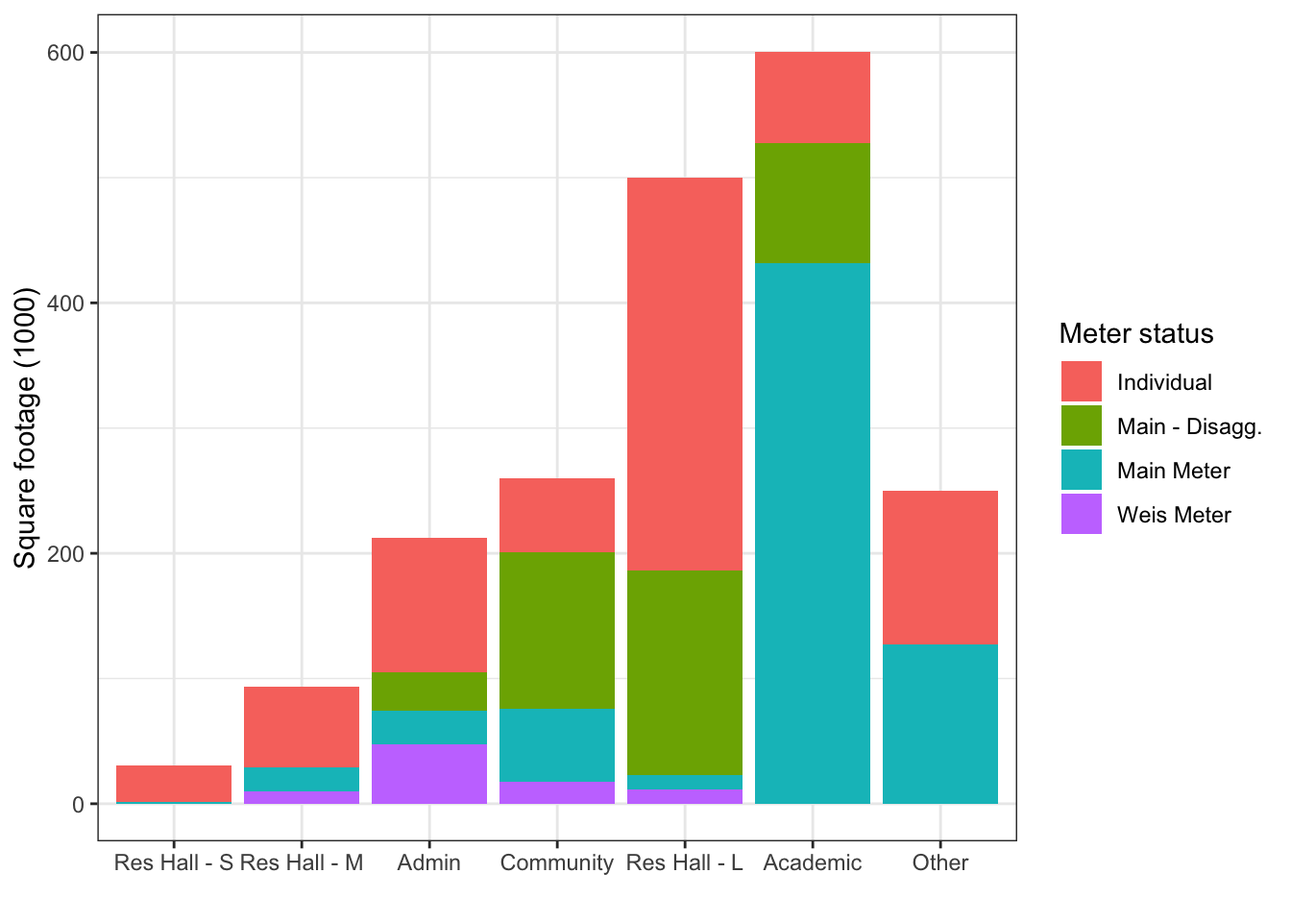
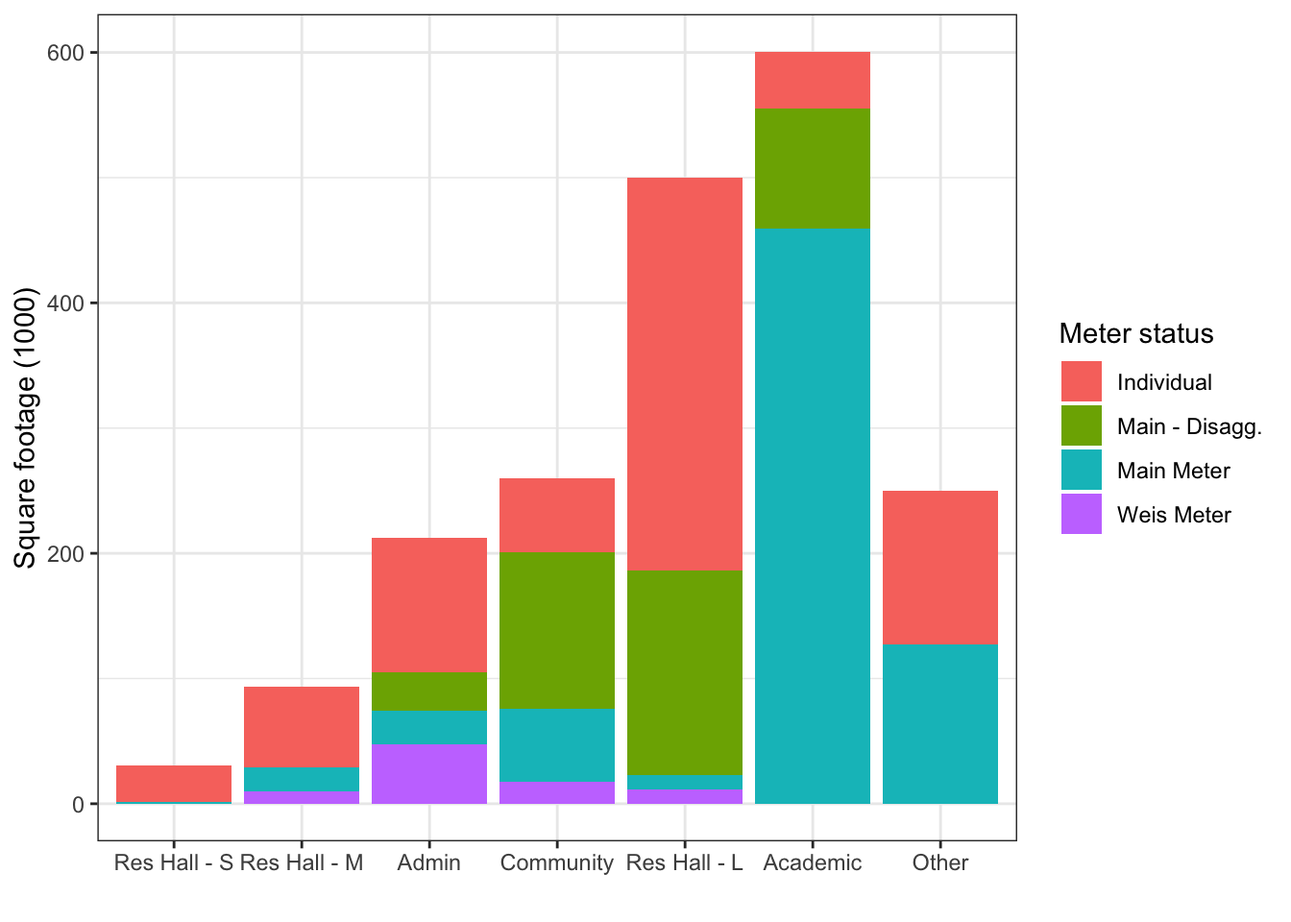
fixed issue with East College

Changed region(s): [[0.5625, 0.0938, 0.6875, 0.1562], [0.5625, 0.25, 0.6875, 0.3125]]

diff --git a/docs/data_wrangling_final.html b/docs/data_wrangling_final.html
@@ -525,15 +525,15 @@ project makes it easier to run your code on other machines.</p>
 <div class="panel panel-default">
 <div class="panel-heading">
 <p class="panel-title">
-<a data-toggle="collapse" data-parent="#workflowr-checks" href="#strongRepositoryversionstrongahrefhttpsgithubcommaggiedouglasdickinsonpowertree182fffebb4d7be99596fca90384b3ba416ab01a2targetblank182fffea">
+<a data-toggle="collapse" data-parent="#workflowr-checks" href="#strongRepositoryversionstrongahrefhttpsgithubcommaggiedouglasdickinsonpowertree1e465a5912dd503e14b6c6aa9b4256d15424c390targetblank1e465a5a">
 <span class="glyphicon glyphicon-ok text-success"
 aria-hidden="true"></span> <strong>Repository version:</strong>
-<a href="https://github.com/maggiedouglas/dickinson_power/tree/182fffebb4d7be99596fca90384b3ba416ab01a2" target="_blank">182fffe</a>
+<a href="https://github.com/maggiedouglas/dickinson_power/tree/1e465a5912dd503e14b6c6aa9b4256d15424c390" target="_blank">1e465a5</a>
 </a>
 </p>
 </div>
 <div
[2 lines of base64/hex data omitted]
 class="panel-collapse collapse">
 <div class="panel-body">
 <p>
@@ -543,7 +543,7 @@ reproducibility.
 </p>
 <p>
 The results in this page were generated with repository version
-<a href="https://github.com/maggiedouglas/dickinson_power/tree/182fffebb4d7be99596fca90384b3ba416ab01a2" target="_blank">182fffe</a>.
+<a href="https://github.com/maggiedouglas/dickinson_power/tree/1e465a5912dd503e14b6c6aa9b4256d15424c390" target="_blank">1e465a5</a>.
 See the <em>Past versions</em> tab to see a history of the changes made
 to the R Markdown and HTML files.
 </p>
@@ -574,14 +574,10 @@ Ignored files:
     Ignored:    output/kwh_main_annual.csv
     Ignored:    output/kwh_main_daily.csv
 
-Untracked files:
-    Untracked:  keys/fy25_building_list_updated.csv
-
 Unstaged changes:
-    Modified:   analysis/building_case_study.Rmd
     Modified:   analysis/data_wrangling_final.Rmd
+    Modified:   keys/fy25_building_list_updated.csv
     Modified:   keys/meter_building_key.csv
-    Modified:   keys/temp_by_date.csv
 
 </code></pre>
 <p>
@@ -627,6 +623,40 @@ Message
 </tr>
 </thead>
 <tbody>
+<tr>
+<td>
+Rmd
+</td>
+<td>
+<a href="https://github.com/maggiedouglas/dickinson_power/blob/1e465a5912dd503e14b6c6aa9b4256d15424c390/analysis/data_wrangling_final.Rmd" target="_blank">1e465a5</a>
+</td>
+<td>
+maggiedouglas
+</td>
+<td>
+2026-02-23
+</td>
+<td>
+updated data and building case study with new info
+</td>
+</tr>
+<tr>
+<td>
+html
+</td>
+<td>
+<a href="https://rawcdn.githack.com/maggiedouglas/dickinson_power/1e465a5912dd503e14b6c6aa9b4256d15424c390/docs/data_wrangling_final.html" target="_blank">1e465a5</a>
+</td>
+<td>
+maggiedouglas
+</td>
+<td>
+2026-02-23
+</td>
+<td>
+updated data and building case study with new info
+</td>
+</tr>
 <tr>
 <td>
 html
@@ -838,7 +868,7 @@ co2_kg_kwh &lt;- 0.299511787</code></pre>
  $ total_kwh     : num  28 26.4 26.5 26.3 27.2 ...
  $ ave_temp      : int  78 76 78 81 75 78 80 79 76 76 ...</code></pre>
 <pre class="r"><code>str(buildings)</code></pre>
-<pre><code>&#39;data.frame&#39;:   133 obs. of  14 variables:
+<pre><code>&#39;data.frame&#39;:   136 obs. of  14 variables:
  $ TYPE       : chr  &quot;Academic&quot; &quot;Academic&quot; &quot;Academic&quot; &quot;Academic&quot; ...
  $ type_new   : chr  &quot;Academic&quot; &quot;Academic&quot; &quot;Academic&quot; &quot;Academic&quot; ...
  $ banner_code: chr  &quot;1110&quot; &quot;1540&quot; &quot;1035&quot; &quot;1030&quot; ...
@@ -850,11 +880,11 @@ co2_kg_kwh &lt;- 0.299511787</code></pre>
  $ date_reno  : int  2010 NA NA 2019 2000 NA 1997 2009 1940 2002 ...
  $ sqft       : int  2500 1775 4576 28050 30000 2500 4000 29133 33692 11039 ...
  $ rental     : int  0 0 0 0 0 0 1 0 0 0 ...
- $ main_meter : int  0 0 0 0 0 0 0 1 1 1 ...
+ $ main_meter : int  0 0 0 1 0 0 0 1 1 1 ...
  $ main_disagg: int  0 0 0 0 0 0 0 1 1 1 ...
  $ weis_meter : int  0 0 0 0 0 0 0 0 0 0 ...</code></pre>
 <pre class="r"><code>str(key)</code></pre>
-<pre><code>&#39;data.frame&#39;:   204 obs. of  3 variables:
+<pre><code>&#39;data.frame&#39;:   206 obs. of  3 variables:
  $ meter_origin          : chr  &quot;100 S College St&quot; &quot;100 S West St&quot; &quot;101 S College St&quot; &quot;102 S West St *Apt 1&quot; ...
  $ Sum.of.Total.Usage.kWh: int  269502 12628 14429 4609 4109 2070 7284 5457 3365 6181 ...
  $ NAME                  : chr  &quot;Drayer Hall&quot; &quot;100 S. West St.&quot; &quot;Landis House&quot; &quot;100 S. West St.&quot; ...</code></pre>
@@ -898,7 +928,7 @@ buildings_clean &lt;- buildings %&gt;%
   select(NAME, type_new, occupant, address, date_constr, date_acqd, date_reno, sqft, rental) %&gt;% # select relevant columns
   rbind(buildings_main, buildings_weis)
 
-# Sstore summary of building meter status
+# Store summary of building meter status
 buildings_sum &lt;- buildings %&gt;%
     mutate(meter = ifelse(weis_meter == 1, &quot;Weis Meter&quot;, 
                         ifelse(main_meter == 1 &amp; main_disagg == 1, &quot;Main - Disagg.&quot;,
@@ -966,16 +996,53 @@ datatable(joined_pretty,
                        &quot;Rental?&quot;,&quot;kWh&quot;, &quot;Est cost&quot;, &quot;Square\nfootage&quot;,&quot;kWh\nper sqft&quot;,
                        &quot;Acad yr\noccupants&quot;, &quot;kWh\nper person&quot;))</code></pre>
 <div class="datatables html-widget html-fill-item" id="htmlwidget-1d485ada9b99fcfe0617" style="width:100%;height:auto;"></div>
-<script type="application/json" data-for="htmlwidget-1d485ada9b99fcfe0617">{"x":{"filter":"top","vertical":false,"filterHTML":"<tr>\n  <td data-type=\"character\" style=\"vertical-align: top;\">\n    <div class=\"form-group has-feedback\" style=\"margin-bottom: auto;\">\n      <input type=\"search\" placeholder=\"All\" class=\"form-control\" style=\"width: 100%;\"/>\n      <span class=\"glyphicon glyphicon-remove-circle form-control-feedback\"><\/span>\n    <\/div>\n  <\/td>\n  <td data-type=\"character\" style=\"vertical-align: top;\">\n    <div class=\"form-group has-feedback\" style=\"margin-bottom: auto;\">\n      <input type=\"search\" placeholder=\"All\" class=\"form-control\" style=\"width: 100%;\"/>\n      <span class=\"glyphicon glyphicon-remove-circle form-control-feedback\"><\/span>\n    <\/div>\n  <\/td>\n  <td data-type=\"character\" style=\"vertical-align: top;\">\n    <div class=\"form-group has-feedback\" style=\"margin-bottom: auto;\">\n      <input type=\"search\" placeholder=\"All\" class=\"form-control\" style=\"width: 100%;\"/>\n      <span class=\"glyphicon glyphicon-remove-circle form-control-feedback\"><\/span>\n    <\/div>\n  <\/td>\n  <td data-type=\"integer\" style=\"vertical-align: top;\">\n    <div class=\"form-group has-feedback\" style=\"margin-bottom: auto;\">\n      <input type=\"search\" placeholder=\"All\" class=\"form-control\" style=\"width: 100%;\"/>\n      <span class=\"glyphicon glyphicon-remove-circle form-control-feedback\"><\/span>\n    <\/div>\n    <div style=\"display: none;position: absolute;width: 200px;opacity: 1\">\n      <div data-min=\"1997\" data-max=\"2022\"><\/div>\n      <span style=\"float: left;\"><\/span>\n      <span style=\"float: right;\"><\/span>\n    <\/div>\n  <\/td>\n  <td data-type=\"number\" style=\"vertical-align: top;\">\n    <div class=\"form-group has-feedback\" style=\"margin-bottom: auto;\">\n      <input type=\"search\" placeholder=\"All\" class=\"form-control\" style=\"width: 100%;\"/>\n      <span class=\"glyphicon glyphicon-remove-circle form-control-feedback\"><\/span>\n    <\/div>\n    <div style=\"display: none;position: absolute;width: 200px;opacity: 1\">\n      <div data-min=\"0\" data-max=\"1\"><\/div>\n      <span style=\"float: left;\"><\/span>\n      <span style=\"float: right;\"><\/span>\n    <\/div>\n  <\/td>\n  <td data-type=\"number\" style=\"vertical-align: top;\">\n    <div class=\"form-group has-feedback\" style=\"margin-bottom: auto;\">\n      <input type=\"search\" placeholder=\"All\" class=\"form-control\" style=\"width: 100%;\"/>\n      <span class=\"glyphicon glyphicon-remove-circle form-control-feedback\"><\/span>\n    <\/div>\n    <div style=\"display: none;position: absolute;width: 200px;opacity: 1\">\n      <div data-min=\"1068\" data-max=\"11648808\"><\/div>\n      <span style=\"float: left;\"><\/span>\n      <span style=\"float: right;\"><\/span>\n    <\/div>\n  <\/td>\n  <td data-type=\"character\" style=\"vertical-align: top;\">\n    <div class=\"form-group has-feedback\" style=\"margin-bottom: auto;\">\n      <input type=\"search\" placeholder=\"All\" class=\"form-control\" style=\"width: 100%;\"/>\n      <span class=\"glyphicon glyphicon-remove-circle form-control-feedback\"><\/span>\n    <\/div>\n  <\/td>\n  <td data-type=\"number\" style=\"vertical-align: top;\">\n    <div class=\"form-group has-feedback\" style=\"margin-bottom: auto;\">\n      <input type=\"search\" placeholder=\"All\" class=\"form-control\" style=\"width: 100%;\"/>\n      <span class=\"glyphicon glyphicon-remove-circle form-control-feedback\"><\/span>\n    <\/div>\n    <div style=\"display: none;position: absolute;width: 200px;opacity: 1\">\n      <div data-min=\"500\" data-max=\"60000\"><\/div>\n      <span style=\"float: left;\"><\/span>\n      <span style=\"float: right;\"><\/span>\n    <\/div>\n  <\/td>\n  <td data-type=\"number\" style=\"vertical-align: top;\">\n    <div class=\"form-group has-feedback\" style=\"margin-bottom: auto;\">\n      <input type=\"search\" placeholder=\"All\" class=\"form-control\" style=\"width: 100%;\"/>\n      <span class=\"glyphicon glyphicon-remove-circle form-control-feedback\"><\/span>\n    <\/div>\n    <div style=\"display: none;position: absolute;width: 200px;opacity: 1\">\n      <div data-min=\"0.9\" data-max=\"415.3\" data-scale=\"1\"><\/div>\n      <span style=\"float: left;\"><\/span>\n      <span style=\"float: right;\"><\/span>\n    <\/div>\n  <\/td>\n  <td data-type=\"number\" style=\"vertical-align: top;\">\n    <div class=\"form-group has-feedback\" style=\"margin-bottom: auto;\">\n      <input type=\"search\" placeholder=\"All\" class=\"form-control\" style=\"width: 100%;\"/>\n      <span class=\"glyphicon glyphicon-remove-circle form-control-feedback\"><\/span>\n    <\/div>\n    <div style=\"display: none;position: absolute;width: 200px;opacity: 1\">\n      <div data-min=\"2\" data-max=\"162\"><\/div>\n      <span style=\"float: left;\"><\/span>\n      <span style=\"float: right;\"><\/span>\n    <\/div>\n  <\/td>\n  <td data-type=\"number\" style=\"vertical-align: top;\">\n    <div class=\"form-group has-feedback\" style=\"margin-bottom: auto;\">\n      <input type=\"search\" placeholder=\"All\" class=\"form-control\" style=\"width: 100%;\"/>\n      <span class=\"glyphicon glyphicon-remove-circle form-control-feedback\"><\/span>\n    <\/div>\n    <div style=\"display: none;position: absolute;width: 200px;opacity: 1\">\n      <div data-min=\"725\" data-max=\"6641\"><\/div>\n      <span style=\"float: left;\"><\/span>\n      <span style=\"float: right;\"><\/span>\n    <\/div>\n  <\/td>\n<\/tr>","data":[["Res Hall - L","Res Hall - L","Res Hall - L","Other","Res Hall - L","Res Hall - L","Community","Academic","Academic","Admin","Other","Res Hall - L","Res Hall - L","Res Hall - L","Res Hall - L","Res Hall - L","Community","Community","Res Hall - M","Res Hall - M","Community","Res Hall - M","Res Hall - M","Res Hall - M","Academic","Res Hall - M","Res Hall - M","Res Hall - M","Res Hall - M","Academic","Res Hall - M","Res Hall - M","Other","Res Hall - M","Other","Res Hall - M","Academic","Academic","Res Hall - M","Other","Admin","Admin","Res Hall - S","Other","Academic","Res Hall - S","Res Hall - S","Res Hall - S","Other","Res Hall - S","Res Hall - S","Res Hall - S","Res Hall - S","Res Hall - S","Res Hall - S","Res Hall - S","Res Hall - S","Res Hall - S","Admin","Res Hall - S","Res Hall - S","Res Hall - S","Res Hall - S","Res Hall - S","Res Hall - S","Other","Other","Res Hall - S","Other","Other","Other","Res Hall - U","Res Hall - U","Res Hall - U","Res Hall - U","Res Hall - U"],["Goodyear","Drayer Hall","Adams","5 N. Orange St. - CPYB/SHARE","High Street Residence Hall","Morgan Hall","Allison Church","Goodyear Arts Studio","East College","50 Mooreland Ave.","Wentzel","Malcolm Hall","Witwer Hall","Factory Apts.","27 W. High St.","Matthews House","DCCC","Landis House","100 S. West St.","Strayer House","President's House (New)","Treehouse","141 W. High St.","Reed Apts.","57 S. College","163 W. High St","165 W. High St","159 W. High St.","Schuman House","Carlisle Theatre","155 W. High St.","Cherry Apts","49 W. High (1, 2, 3)","146 W. Louther St.","King House","Vincett House","162-164  Dickinson Ave.","Green Valley Sanctuary","133 N. College St.","119 W. High St. (1, 2, 3)","41 Conway St.","556 W. Louther St.","135 Cedar St.","Kade House","46 S. West St.","2 Conway St.","139 N. College St.","531 W. Louther St.","344 W. North St.","509 W. Louther St.","513 W. Louther St.","49 S. College St.","51 S. College St.","505 W. Louther St.","507 W. Louther St.","135 N. College St.","417 W. Louther St.","521 W. Louther St.","554 W. Louther St.","529 W. Louther St.","519 W. Louther St.","425 W. Louther St.","515 W. Louther St.","527 W. Louther St.","538 W. Louther St.","362 W. North S.","368 W. North","Carriage House","155 W. High St., Ground Floor","25 Pomfret St (15, 16)","50 Wilson Street","133 W. High St. (2, 5)","152 W. Louther St.","154 W. Louther St. (1)","19-21 W. High St.","23 W. High St."],["1891","1952","1962","","2018","1955","1958","1891","1836","","1993","1966","1965","","1905","1926","","1905","","1930","","","","","","","","","","","","","","","1967","","","","1890","","","","","","","","1910","1910","1910","1902","1910","1960","1960","1910","1900","1910","1870","1910","","1910","1910","1874","1875","1910","","1900","1900","1930","","","","","","","",""],[2000,null,null,null,null,2003,null,2000,2019,null,2020,null,null,null,null,null,2009,null,null,null,null,2006,null,null,null,null,null,null,null,1997,null,null,null,2022,null,null,2010,null,2019,null,null,2017,null,null,null,2018,2019,2017,null,2017,2017,2017,2019,2017,2017,2019,2019,2017,2017,2017,2017,2019,2017,2017,null,null,null,null,null,null,null,null,null,null,null,null],[0,0,0,0,0,0,0,0,0,0,0,0,0,1,1,0,0,0,1,0,0,0,1,1,0,0,0,0,0,1,0,1,1,1,0,0,0,0,0,1,0,0,0,0,0,0,0,0,0,0,0,0,0,0,0,0,0,0,0,0,0,0,0,0,0,0,0,0,0,1,1,1,1,1,1,1],[512614,269502,223957,277590,234938,247869,77578,512614,11648808,95137,22830,158463,88635,222053,220896,40566,39786,14429,54882,18275,30585,21775,60837,31914,12221,14863,12690,29252,10946,29070,8851,19464,30832,18467,64445,14797,9217,21575,17555,19990,6277,4986,13830,10487,6493,5543,18531,7374,12407,7070,7910,15611,15611,8772,8965,18531,8115,5082,8520,7663,8294,7326,4352,4998,4578,6482,3151,1952,1068,42473,8693,9473,53130,16662,5215,14266],["$ 41675","$ 21911","$ 18208","$ 22568","$ 19100","$ 20152","$ 6307","$ 41675","$ 947048","$ 7735","$ 1856","$ 12883","$ 7206","$ 18053","$ 17959","$ 3298","$ 3235","$ 1173","$ 4462","$ 1486","$ 2487","$ 1770","$ 4946","$ 2595","$ 994","$ 1208","$ 1032","$ 2378","$ 890","$ 2363","$ 720","$ 1582","$ 2507","$ 1501","$ 5239","$ 1203","$ 749","$ 1754","$ 1427","$ 1625","$ 510","$ 405","$ 1124","$ 853","$ 528","$ 451","$ 1507","$ 600","$ 1009","$ 575","$ 643","$ 1269","$ 1269","$ 713","$ 729","$ 1507","$ 660","$ 413","$ 693","$ 623","$ 674","$ 596","$ 354","$ 406","$ 372","$ 527","$ 256","$ 159","$ 87","$ 3453","$ 707","$ 770","$ 4319","$ 1355","$ 424","$ 1160"],[60000,48720,47750,42500,41945,40000,33310,30000,28050,27100,25000,20434,18603,13000,11750,11548,10892,7953,7190,6845,6274,6000,5825,5206,4576,4550,4550,4500,4444,4000,4000,3519,3000,2864,2745,2700,2500,2500,2272,2240,2200,2000,1900,1800,1775,1729,1728,1636,1586,1532,1532,1500,1500,1492,1492,1476,1462,1448,1440,1352,1330,1318,1268,1244,1200,1111,992,725,500,null,null,null,null,null,null,null],[8.5,5.5,4.7,6.5,5.6,6.2,2.3,17.1,415.3,3.5,0.9,7.8,4.8,17.1,18.8,3.5,3.7,1.8,7.6,2.7,4.9,3.6,10.4,6.1,2.7,3.3,2.8,6.5,2.5,7.3,2.2,5.5,10.3,6.4,23.5,5.5,3.7,8.6,7.7,8.9,2.9,2.5,7.3,5.8,3.7,3.2,10.7,4.5,7.8,4.6,5.2,10.4,10.4,5.9,6,12.6,5.6,3.5,5.9,5.7,6.2,5.6,3.4,4,3.8,5.8,3.2,2.7,2.1,null,null,null,null,null,null,null],[null,160,162,null,119,141,null,null,null,null,null,null,76,52,40,24,null,null,19,null,null,null,20,19,null,12,11,18,null,null,6,12,null,7,null,null,null,null,5,null,null,null,4,null,null,4,4,6,null,5,5,3,3,5,5,4,5,6,null,5,4,4,6,4,3,null,null,null,null,null,null,4,8,4,2,8],[null,1679,1387,null,1974,1758,null,null,null,null,null,null,1166,4270,5454,1726,null,null,2889,null,null,null,3042,1680,null,1239,1154,1625,null,null,1475,1622,null,2638,null,null,null,null,3511,null,null,null,3457,null,null,1386,4633,1229,null,1414,1582,5204,5204,1754,1793,4633,1623,847,null,1533,2074,2093,725,1250,1526,null,null,null,null,null,null,2105,6641,4166,3476,1783]],"container":"<table class=\"display\">\n  <thead>\n    <tr>\n      <th>Building\ntype<\/th>\n      <th>Name<\/th>\n      <th>Date\nconstructed<\/th>\n      <th>Date\nrenovated<\/th>\n      <th>Rental?<\/th>\n      <th>kWh<\/th>\n      <th>Est cost<\/th>\n      <th>Square\nfootage<\/th>\n      <th>kWh\nper sqft<\/th>\n      <th>Acad yr\noccupants<\/th>\n      <th>kWh\nper person<\/th>\n    <\/tr>\n  <\/thead>\n<\/table>","options":{"columnDefs":[{"className":"dt-right","targets":[3,4,5,7,8,9,10]},{"name":"type","targets":0},{"name":"NAME","targets":1},{"name":"date_constr","targets":2},{"name":"date_reno","targets":3},{"name":"rental","targets":4},{"name":"kwh","targets":5},{"name":"dollars","targets":6},{"name":"sqft","targets":7},{"name":"kwh_sqft","targets":8},{"name":"occupants","targets":9},{"name":"kwh_person","targets":10}],"order":[],"autoWidth":false,"orderClasses":false,"orderCellsTop":true}},"evals":[],"jsHooks":[]}</script>
+<script type="application/json" data-for="htmlwidget-1d485ada9b99fcfe0617">{"x":{"filter":"top","vertical":false,"filterHTML":"<tr>\n  <td data-type=\"character\" style=\"vertical-align: top;\">\n    <div class=\"form-group has-feedback\" style=\"margin-bottom: auto;\">\n      <input type=\"search\" placeholder=\"All\" class=\"form-control\" style=\"width: 100%;\"/>\n      <span class=\"glyphicon glyphicon-remove-circle form-control-feedback\"><\/span>\n    <\/div>\n  <\/td>\n  <td data-type=\"character\" style=\"vertical-align: top;\">\n    <div class=\"form-group has-feedback\" style=\"margin-bottom: auto;\">\n      <input type=\"search\" placeholder=\"All\" class=\"form-control\" style=\"width: 100%;\"/>\n      <span class=\"glyphicon glyphicon-remove-circle form-control-feedback\"><\/span>\n    <\/div>\n  <\/td>\n  <td data-type=\"character\" style=\"vertical-align: top;\">\n    <div class=\"form-group has-feedback\" style=\"margin-bottom: auto;\">\n      <input type=\"search\" placeholder=\"All\" class=\"form-control\" style=\"width: 100%;\"/>\n      <span class=\"glyphicon glyphicon-remove-circle form-control-feedback\"><\/span>\n    <\/div>\n  <\/td>\n  <td data-type=\"integer\" style=\"vertical-align: top;\">\n    <div class=\"form-group has-feedback\" style=\"margin-bottom: auto;\">\n      <input type=\"search\" placeholder=\"All\" class=\"form-control\" style=\"width: 100%;\"/>\n      <span class=\"glyphicon glyphicon-remove-circle form-control-feedback\"><\/span>\n    <\/div>\n    <div style=\"display: none;position: absolute;width: 200px;opacity: 1\">\n      <div data-min=\"1997\" data-max=\"2022\"><\/div>\n      <span style=\"float: left;\"><\/span>\n      <span style=\"float: right;\"><\/span>\n    <\/div>\n  <\/td>\n  <td data-type=\"number\" style=\"vertical-align: top;\">\n    <div class=\"form-group has-feedback\" style=\"margin-bottom: auto;\">\n      <input type=\"search\" placeholder=\"All\" class=\"form-control\" style=\"width: 100%;\"/>\n      <span class=\"glyphicon glyphicon-remove-circle form-control-feedback\"><\/span>\n    <\/div>\n    <div style=\"display: none;position: absolute;width: 200px;opacity: 1\">\n      <div data-min=\"0\" data-max=\"1\"><\/div>\n      <span style=\"float: left;\"><\/span>\n      <span style=\"float: right;\"><\/span>\n    <\/div>\n  <\/td>\n  <td data-type=\"number\" style=\"vertical-align: top;\">\n    <div class=\"form-group has-feedback\" style=\"margin-bottom: auto;\">\n      <input type=\"search\" placeholder=\"All\" class=\"form-control\" style=\"width: 100%;\"/>\n      <span class=\"glyphicon glyphicon-remove-circle form-control-feedback\"><\/span>\n    <\/div>\n    <div style=\"display: none;position: absolute;width: 200px;opacity: 1\">\n      <div data-min=\"1068\" data-max=\"11648808\"><\/div>\n      <span style=\"float: left;\"><\/span>\n      <span style=\"float: right;\"><\/span>\n    <\/div>\n  <\/td>\n  <td data-type=\"character\" style=\"vertical-align: top;\">\n    <div class=\"form-group has-feedback\" style=\"margin-bottom: auto;\">\n      <input type=\"search\" placeholder=\"All\" class=\"form-control\" style=\"width: 100%;\"/>\n      <span class=\"glyphicon glyphicon-remove-circle form-control-feedback\"><\/span>\n    <\/div>\n  <\/td>\n  <td data-type=\"number\" style=\"vertical-align: top;\">\n    <div class=\"form-group has-feedback\" style=\"margin-bottom: auto;\">\n      <input type=\"search\" placeholder=\"All\" class=\"form-control\" style=\"width: 100%;\"/>\n      <span class=\"glyphicon glyphicon-remove-circle form-control-feedback\"><\/span>\n    <\/div>\n    <div style=\"display: none;position: absolute;width: 200px;opacity: 1\">\n      <div data-min=\"500\" data-max=\"1119435\"><\/div>\n      <span style=\"float: left;\"><\/span>\n      <span style=\"float: right;\"><\/span>\n    <\/div>\n  <\/td>\n  <td data-type=\"number\" style=\"vertical-align: top;\">\n    <div class=\"form-group has-feedback\" style=\"margin-bottom: auto;\">\n      <input type=\"search\" placeholder=\"All\" class=\"form-control\" style=\"width: 100%;\"/>\n      <span class=\"glyphicon glyphicon-remove-circle form-control-feedback\"><\/span>\n    <\/div>\n    <div style=\"display: none;position: absolute;width: 200px;opacity: 1\">\n      <div data-min=\"0.9\" data-max=\"23.5\" data-scale=\"1\"><\/div>\n      <span style=\"float: left;\"><\/span>\n      <span style=\"float: right;\"><\/span>\n    <\/div>\n  <\/td>\n  <td data-type=\"number\" style=\"vertical-align: top;\">\n    <div class=\"form-group has-feedback\" style=\"margin-bottom: auto;\">\n      <input type=\"search\" placeholder=\"All\" class=\"form-control\" style=\"width: 100%;\"/>\n      <span class=\"glyphicon glyphicon-remove-circle form-control-feedback\"><\/span>\n    <\/div>\n    <div style=\"display: none;position: absolute;width: 200px;opacity: 1\">\n      <div data-min=\"2\" data-max=\"162\"><\/div>\n      <span style=\"float: left;\"><\/span>\n      <span style=\"float: right;\"><\/span>\n    <\/div>\n  <\/td>\n  <td data-type=\"number\" style=\"vertical-align: top;\">\n    <div class=\"form-group has-feedback\" style=\"margin-bottom: auto;\">\n      <input type=\"search\" placeholder=\"All\" class=\"form-control\" style=\"width: 100%;\"/>\n      <span class=\"glyphicon glyphicon-remove-circle form-control-feedback\"><\/span>\n    <\/div>\n    <div style=\"display: none;position: absolute;width: 200px;opacity: 1\">\n      <div data-min=\"725\" data-max=\"6641\"><\/div>\n      <span style=\"float: left;\"><\/span>\n      <span style=\"float: right;\"><\/span>\n    <\/div>\n  <\/td>\n<\/tr>","data":[["Main Meter","Weis Meter","Res Hall - L","Res Hall - L","Res Hall - L","Other","Res Hall - L","Res Hall - L","Community","Academic","Admin","Other","Res Hall - L","Res Hall - L","Res Hall - L","Res Hall - L","Res Hall - L","Community","Community","Res Hall - M","Res Hall - M","Community","Res Hall - M","Res Hall - M","Res Hall - M","Academic","Res Hall - M","Res Hall - M","Res Hall - M","Res Hall - M","Academic","Res Hall - M","Res Hall - M","Other","Res Hall - M","Other","Res Hall - M","Academic","Academic","Res Hall - M","Other","Admin","Admin","Res Hall - S","Other","Academic","Res Hall - S","Res Hall - S","Res Hall - S","Other","Res Hall - S","Res Hall - S","Res Hall - S","Res Hall - S","Res Hall - S","Res Hall - S","Res Hall - S","Res Hall - S","Res Hall - S","Admin","Res Hall - S","Res Hall - S","Res Hall - S","Res Hall - S","Res Hall - S","Res Hall - S","Other","Other","Res Hall - S","Other","Other","Other","Res Hall - U","Res Hall - U","Res Hall - U","Res Hall - U","Res Hall - U"],["Main Meter","Weis Meter","Goodyear","Drayer Hall","Adams","5 N. Orange St. - CPYB/SHARE","High Street Residence Hall","Morgan Hall","Allison Church","Goodyear Arts Studio","50 Mooreland Ave.","Wentzel","Malcolm Hall","Witwer Hall","Factory Apts.","27 W. High St.","Matthews House","DCCC","Landis House","100 S. West St.","Strayer House","President's House (New)","Treehouse","141 W. High St.","Reed Apts.","57 S. College","163 W. High St","165 W. High St","159 W. High St.","Schuman House","Carlisle Theatre","155 W. High St.","Cherry Apts","49 W. High (1, 2, 3)","146 W. Louther St.","King House","Vincett House","162-164  Dickinson Ave.","Green Valley Sanctuary","133 N. College St.","119 W. High St. (1, 2, 3)","41 Conway St.","556 W. Louther St.","135 Cedar St.","Kade House","46 S. West St.","2 Conway St.","139 N. College St.","531 W. Louther St.","344 W. North St.","509 W. Louther St.","513 W. Louther St.","49 S. College St.","51 S. College St.","505 W. Louther St.","507 W. Louther St.","135 N. College St.","417 W. Louther St.","521 W. Louther St.","554 W. Louther St.","529 W. Louther St.","519 W. Louther St.","425 W. Louther St.","515 W. Louther St.","527 W. Louther St.","538 W. Louther St.","362 W. North S.","368 W. North","Carriage House","155 W. High St., Ground Floor","25 Pomfret St (15, 16)","50 Wilson Street","133 W. High St. (2, 5)","152 W. Louther St.","154 W. Louther St. (1)","19-21 W. High St.","23 W. High St."],[null,null,"1891","1952","1962","","2018","1955","1958","1891","","1993","1966","1965","","1905","1926","","1905","","1930","","","","","","","","","","","","","","","1967","","","","1890","","","","","","","","1910","1910","1910","1902","1910","1960","1960","1910","1900","1910","1870","1910","","1910","1910","1874","1875","1910","","1900","1900","1930","","","","","","","",""],[null,null,2000,null,null,null,null,2003,null,2000,null,2020,null,null,null,null,null,2009,null,null,null,null,2006,null,null,null,null,null,null,null,1997,null,null,null,2022,null,null,2010,null,2019,null,null,2017,null,null,null,2018,2019,2017,null,2017,2017,2017,2019,2017,2017,2019,2019,2017,2017,2017,2017,2019,2017,2017,null,null,null,null,null,null,null,null,null,null,null,null],[0,0,0,0,0,0,0,0,0,0,0,0,0,0,1,1,0,0,0,1,0,0,0,1,1,0,0,0,0,0,1,0,1,1,1,0,0,0,0,0,1,0,0,0,0,0,0,0,0,0,0,0,0,0,0,0,0,0,0,0,0,0,0,0,0,0,0,0,0,0,1,1,1,1,1,1,1],[11648808,973320,512614,269502,223957,277590,234938,247869,77578,512614,95137,22830,158463,88635,222053,220896,40566,39786,14429,54882,18275,30585,21775,60837,31914,12221,14863,12690,29252,10946,29070,8851,19464,30832,18467,64445,14797,9217,21575,17555,19990,6277,4986,13830,10487,6493,5543,18531,7374,12407,7070,7910,15611,15611,8772,8965,18531,8115,5082,8520,7663,8294,7326,4352,4998,4578,6482,3151,1952,1068,42473,8693,9473,53130,16662,5215,14266],["$ 947048","$ 79131","$ 41675","$ 21911","$ 18208","$ 22568","$ 19100","$ 20152","$ 6307","$ 41675","$ 7735","$ 1856","$ 12883","$ 7206","$ 18053","$ 17959","$ 3298","$ 3235","$ 1173","$ 4462","$ 1486","$ 2487","$ 1770","$ 4946","$ 2595","$ 994","$ 1208","$ 1032","$ 2378","$ 890","$ 2363","$ 720","$ 1582","$ 2507","$ 1501","$ 5239","$ 1203","$ 749","$ 1754","$ 1427","$ 1625","$ 510","$ 405","$ 1124","$ 853","$ 528","$ 451","$ 1507","$ 600","$ 1009","$ 575","$ 643","$ 1269","$ 1269","$ 713","$ 729","$ 1507","$ 660","$ 413","$ 693","$ 623","$ 674","$ 596","$ 354","$ 406","$ 372","$ 527","$ 256","$ 159","$ 87","$ 3453","$ 707","$ 770","$ 4319","$ 1355","$ 424","$ 1160"],[1119435,85725,60000,48720,47750,42500,41945,40000,33310,30000,27100,25000,20434,18603,13000,11750,11548,10892,7953,7190,6845,6274,6000,5825,5206,4576,4550,4550,4500,4444,4000,4000,3519,3000,2864,2745,2700,2500,2500,2272,2240,2200,2000,1900,1800,1775,1729,1728,1636,1586,1532,1532,1500,1500,1492,1492,1476,1462,1448,1440,1352,1330,1318,1268,1244,1200,1111,992,725,500,null,null,null,null,null,null,null],[10.4,11.4,8.5,5.5,4.7,6.5,5.6,6.2,2.3,17.1,3.5,0.9,7.8,4.8,17.1,18.8,3.5,3.7,1.8,7.6,2.7,4.9,3.6,10.4,6.1,2.7,3.3,2.8,6.5,2.5,7.3,2.2,5.5,10.3,6.4,23.5,5.5,3.7,8.6,7.7,8.9,2.9,2.5,7.3,5.8,3.7,3.2,10.7,4.5,7.8,4.6,5.2,10.4,10.4,5.9,6,12.6,5.6,3.5,5.9,5.7,6.2,5.6,3.4,4,3.8,5.8,3.2,2.7,2.1,null,null,null,null,null,null,null],[null,null,null,160,162,null,119,141,null,null,null,null,null,76,52,40,24,null,null,19,null,null,null,20,19,null,12,11,18,null,null,6,12,null,7,null,null,null,null,5,null,null,null,4,null,null,4,4,6,null,5,5,3,3,5,5,4,5,6,null,5,4,4,6,4,3,null,null,null,null,null,null,4,8,4,2,8],[null,null,null,1679,1387,null,1974,1758,null,null,null,null,null,1166,4270,5454,1726,null,null,2889,null,null,null,3042,1680,null,1239,1154,1625,null,null,1475,1622,null,2638,null,null,null,null,3511,null,null,null,3457,null,null,1386,4633,1229,null,1414,1582,5204,5204,1754,1793,4633,1623,847,null,1533,2074,2093,725,1250,1526,null,null,null,null,null,null,2105,6641,4166,3476,1783]],"container":"<table class=\"display\">\n  <thead>\n    <tr>\n      <th>Building\ntype<\/th>\n      <th>Name<\/th>\n      <th>Date\nconstructed<\/th>\n      <th>Date\nrenovated<\/th>\n      <th>Rental?<\/th>\n      <th>kWh<\/th>\n      <th>Est cost<\/th>\n      <th>Square\nfootage<\/th>\n      <th>kWh\nper sqft<\/th>\n      <th>Acad yr\noccupants<\/th>\n      <th>kWh\nper person<\/th>\n    <\/tr>\n  <\/thead>\n<\/table>","options":{"columnDefs":[{"className":"dt-right","targets":[3,4,5,7,8,9,10]},{"name":"type","targets":0},{"name":"NAME","targets":1},{"name":"date_constr","targets":2},{"name":"date_reno","targets":3},{"name":"rental","targets":4},{"name":"kwh","targets":5},{"name":"dollars","targets":6},{"name":"sqft","targets":7},{"name":"kwh_sqft","targets":8},{"name":"occupants","targets":9},{"name":"kwh_person","targets":10}],"order":[],"autoWidth":false,"orderClasses":false,"orderCellsTop":true}},"evals":[],"jsHooks":[]}</script>
 </div>
 <div id="summary-graph-by-meter-status" class="section level2">
 <h2>Summary graph by meter status</h2>
-<pre class="r"><code>ggplot(filter(buildings_sum, type_new != &quot;Res Hall - U&quot;),
+<pre class="r"><code>ggplot(filter(buildings_sum, ! type_new %in% c(&quot;Res Hall - U&quot;,&quot;Mixed&quot;)),
        aes(x = reorder(type_new, sqft, FUN = &quot;sum&quot;), y = sqft/1000, fill = meter)) +
   geom_col(position = &quot;stack&quot;) +
   theme_bw() +
   labs(x = &quot;&quot;, y = &quot;Square footage (1000)&quot;, fill = &quot;Meter status&quot;)</code></pre>
 <p><img src="figure/data_wrangling_final.Rmd/graph%20meter-1.png" width="672" style="display: block; margin: auto;" /></p>
+<p>
+<button type="button" class="btn btn-default btn-xs btn-workflowr btn-workflowr-fig" data-toggle="collapse" data-target="#fig-no-spaces-graph-meter-1">
+Past versions of "graph meter-1.png"
+</button>
+</p>
+<div id="fig-no-spaces-graph-meter-1" class="collapse">
+<div class="table-responsive">
+<table class="table table-condensed table-hover">
+<thead>
+<tr>
+<th>
+Version
+</th>
+<th>
+Author
+</th>
+<th>
+Date
+</th>
+</tr>
+</thead>
+<tbody>
+<tr>
+<td>
+<a href="https://github.com/maggiedouglas/dickinson_power/blob/1e465a5912dd503e14b6c6aa9b4256d15424c390/docs/figure/data_wrangling_final.Rmd/graph meter-1.png" target="_blank">1e465a5</a>
+</td>
+<td>
+maggiedouglas
+</td>
+<td>
+2026-02-23
+</td>
+</tr>
+</tbody>
+</table>
+</div>
+</div>
 </div>
 <div id="export-for-downstream-analyses" class="section level2">
 <h2>Export for downstream analyses</h2>
